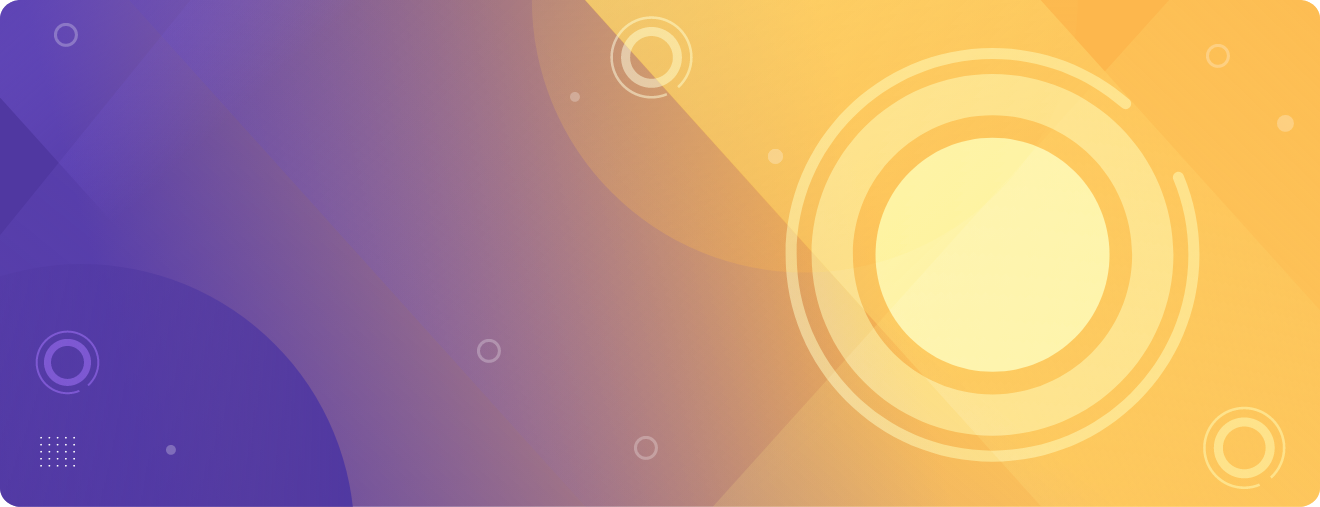
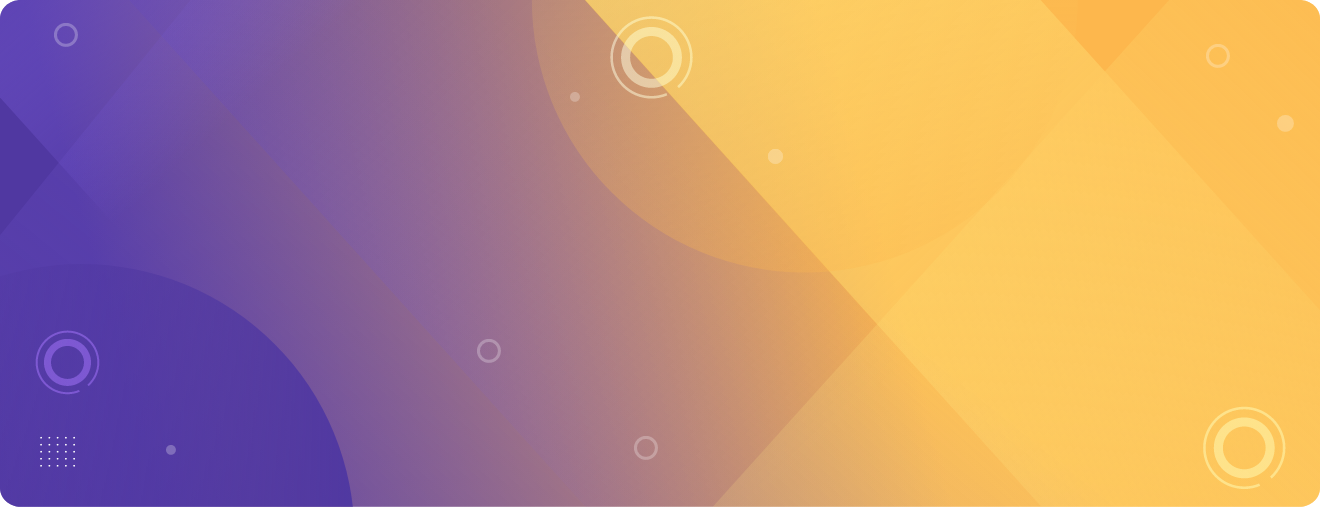
.

Changed region(s): [[0.5902, 0.0888, 0.9318, 0.9172]]

diff --git a/src/config/global.js b/src/config/global.js
@@ -4,7 +4,7 @@ export default {
     descripcionCurso:
       'Los acuerdos con proveedores comerciales se realizan en toda empresa al momento de comprar cualquier bien o servicio, para lo cual se requieren los conocimientos en elaboración de cotizaciones, diseño de estructura de un cuadro comparativo, presentación de oferta comercial, modelos de certificación de proveedores, desarrollo sostenible y buenas prácticas, lo que permite establecer sinergia entre las partes.',
     imagenBannerPrincipal: require('@/assets/curso/portada/banner_principal1.png'),
-    fondoBannerPrincipal: require('@/assets/curso/portada/fondo-banner-principal2.png'),
+    fondoBannerPrincipal: require('@/assets/curso/portada/fondo-banner-principal.png'),
     imagenesDecorativasBanner: [
       {
         clases: ['banner-principal-decorativo-1', 'd-none', 'd-lg-block'],
